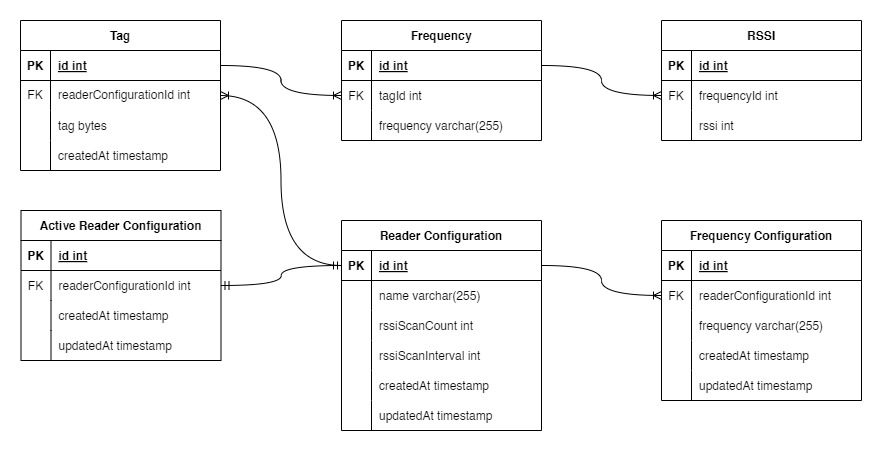
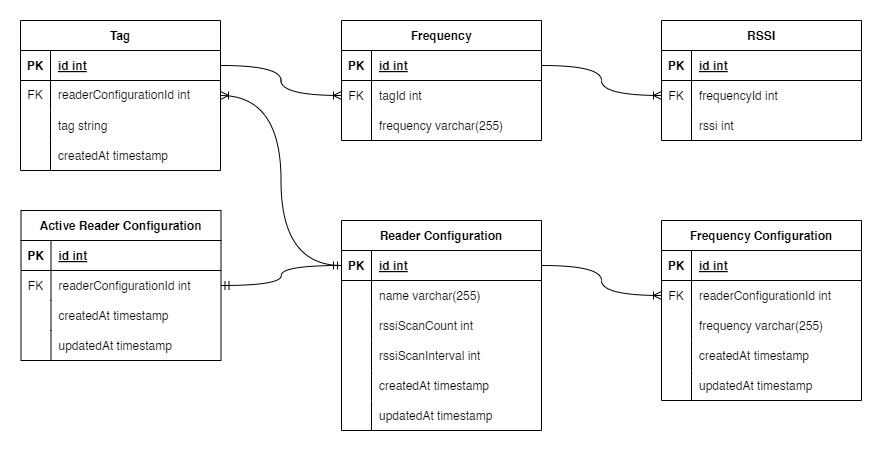
feat(diagram & server): tag type to string

diff --git a/src/server/source/model/tag/tag.controller.ts b/src/server/source/model/tag/tag.controller.ts
@@ -44,18 +44,6 @@ export class TagController
     }
 
     @Override
-    public async change(
-        // eslint-disable-next-line @typescript-eslint/no-unused-vars
-        @Param("id", ParseIntPipe) id: number,
-        // eslint-disable-next-line @typescript-eslint/no-unused-vars
-        @Body() payload: TagUpdateDTO
-    ): Promise<ResponseFormatInterface<TagModel>> {
-        this.loggerService.error(`Change: Method Is Disabled`);
-
-        throw new ForbiddenException("Method Is Disabled");
-    }
-
-    @Override
     public async remove(
         // eslint-disable-next-line @typescript-eslint/no-unused-vars
         @Param("id", ParseIntPipe) id: number

diff --git a/src/server/source/model/tag/tag.ts b/src/server/source/model/tag/tag.ts
@@ -12,7 +12,7 @@ export class TagModel implements Prisma.TagCreateInput {
     readerConfigurationId: number;
 
     @IsOptional()
-    tag?: Buffer;
+    tag?: string;
 
     @IsDate()
     createdAt: Date;
@@ -24,4 +24,6 @@ export class TagDetailedModel extends TagModel {
 
 export class TagCreateDTO {}
 
-export class TagUpdateDTO {}
+export class TagUpdateDTO {
+    tag: string;
+}
